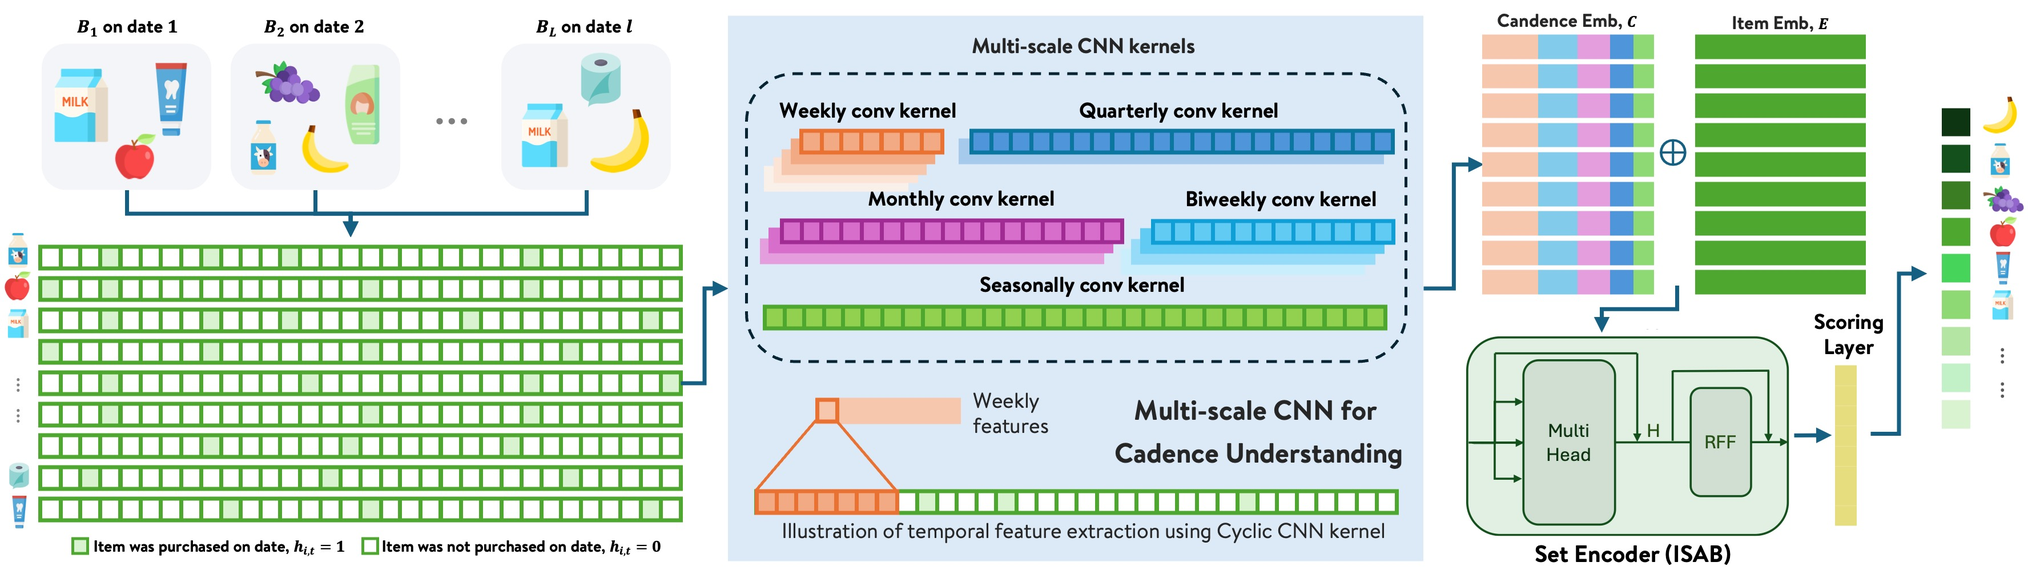
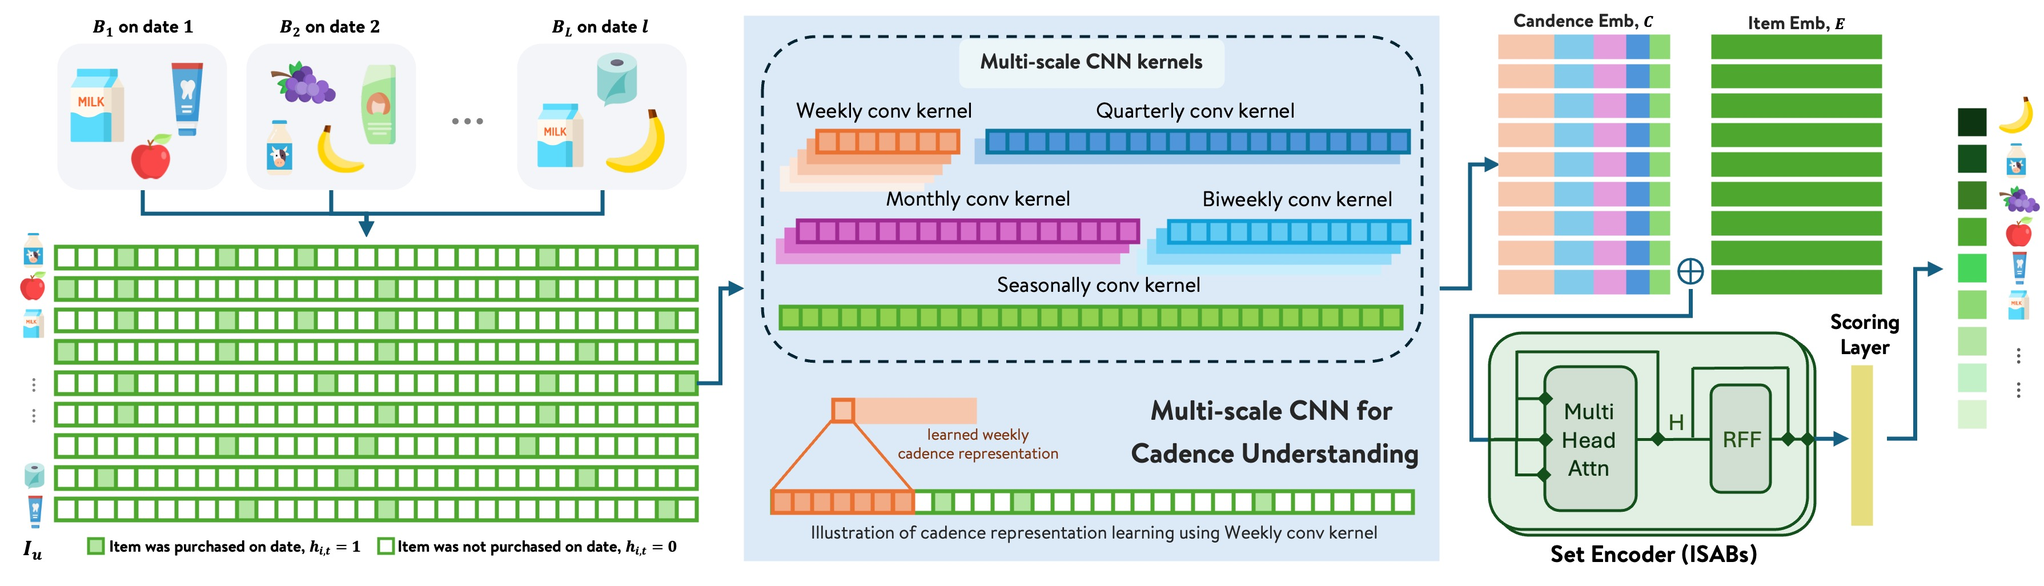
Updates from Overleaf

diff --git a/main.tex b/main.tex
@@ -100,7 +100,7 @@
 
 % % COMMENTS
 \newif\ifcomment
-% \commenttrue % comment out to hide comments
+\commenttrue % comment out to hide comments
 \providecommand{\YC}[1]{\ifcomment{\small \color{blue} [YC: #1]}\fi} %Yanan
 \providecommand{\AR}[1]{\ifcomment{\small \color{red} [AR: #1]}\fi} %Ashish
 
@@ -229,8 +229,9 @@
 %% The abstract is a short summary of the work to be presented in the
 %% article.
 \begin{abstract}
-Repurchase behavior is a major driver of large-scale retail recommendation: many items in a user’s next basket were purchased before, and their timing often follows stable, item-specific cadences. Yet most next basket recommendation models represent history as a sequence of discrete basket events indexed by visit order, which cannot explicitly model elapsed calendar time or update repurchase likelihoods between transactions. We present \textbf{CASE} (\textbf{C}adence-\textbf{A}ware \textbf{S}et \textbf{E}ncoding for next-basket repurchase recommendation), which decouples item-level cadence encoding from cross-item set modeling. CASE represents each item’s purchase history as a calendar-time signal over a fixed horizon, applies shared multi-scale temporal convolutions to capture recurring rhythms, and uses induced set attention to model cross-item dependencies with sub-quadratic complexity. Across three public benchmarks and a proprietary dataset, CASE consistently improves Precision, Recall, and NDCG at multiple cutoffs compared to strong nextbasket prediction baselines. In a production-scale evaluation with over tens of million users and large catalog items, CASE achieves up to 8.6\% relative Precision and 9.9\% Recall lift at $K{=}5$, demonstrating that scalable cadence-aware modeling yields measurable gains in both benchmark and industrial settings.
+Repurchase behavior is a primary signal in large-scale retail recommendation, particularly in categories with frequent replenishment: many items in a user’s next basket were previously purchased and their timing follows stable, item-specific cadences. Yet most next basket recommendation models represent history as a sequence of discrete basket events indexed by visit order, which cannot explicitly model elapsed calendar time or update predicted item rankings as calendar days pass between purchases. We present \textbf{CASE} (\textbf{C}adence-\textbf{A}ware \textbf{S}et \textbf{E}ncoding for next basket repurchase recommendation), which decouples item-level cadence learning from cross-item interaction, enabling explicit calendar-time modeling while remaining production-scalable. CASE represents each item’s purchase history as a calendar-time signal over a fixed horizon, applies shared multi-scale temporal convolutions to capture recurring rhythms, and uses induced set attention to model cross-item dependencies with sub-quadratic complexity, allowing efficient batch inference at scale. Across three public benchmarks and a proprietary dataset, CASE consistently improves Precision, Recall, and NDCG at multiple cutoffs compared to strong next basket prediction baselines. In a production-scale evaluation with tens of millions of users and a large item catalog, CASE achieves up to 8.6\% relative Precision and 9.9\% Recall lift at $K{=}5$, demonstrating that scalable cadence-aware modeling yields measurable gains in both benchmark and industrial settings.
 \end{abstract}
+
 
 
 %%
@@ -292,33 +293,28 @@ Repurchase behavior is a major driver of large-scale retail recommendation: many
     \centering    
     \includegraphics[width=1\linewidth]{figure1.jpg}
     \caption{
-    CASE architecture. Item purchase histories are encoded as binary $T$-day calendar-time signals. Shared multi-scale Conv1d kernels (weekly through seasonal) extract cadence embeddings $\mathbf{c}_i$, concatenated with item embeddings $\mathbf{e}_i$ and processed by an Induced Set Attention Block (ISAB) to capture cross-item dependencies at sub-quadratic cost. A final MLP outputs per-item repurchase scores.
+    CASE architecture. Item purchase histories are encoded as binary $T$-day calendar-time signals. Shared multi-scale Conv1d kernels from weekly through seasonal extract cadence embeddings $\mathbf{c}_i$, concatenated with item embeddings $\mathbf{e}_i$ and processed by Induced Set Attention Blocks (ISAB) to capture cross-item dependencies at sub-quadratic cost. A final MLP outputs per-item repurchase scores.
     }    
     \label{fig:diagram}
 \end{figure*}
 
-In large-scale grocery and retail platforms, a large number of items in a user’s next basket have been purchased before. Repurchase timing follows item-specific cadence, such as staples weekly and household goods monthly. Thus, accurate timing directly drives customer experience: recommend too early and suggestions feel irrelevant; too late and the item may already be in the cart from a competing channel. This makes next basket repurchase recommendation (NBRR) a central problem in production Next Basket Recommendation (NBR) systems, where the goal is to predict which previously purchased items a user needs next.
+In large-scale retail platforms with frequent replenishment behavior, a substantial fraction of items in a user’s next basket were previously purchased. Their repurchase timing often follows stable, item-specific cadences, such as milk purchased weekly and cleaning products purchased monthly. Thus, accurate timing is critical for user experience: recommending too early makes suggestions appear irrelevant, whereas recommending too late risks missing the purchase opportunity. This makes Next Basket Repurchase Recommendation (NBRR) a central task in production retail recommendation systems, where the goal is to predict which previously purchased items a user will need next.
 
-Most neural NBRR methods model user history as an ordered sequence of basket events, where time is represented implicitly by basket index rather than cadence around calendar days in real-world ~\cite{yu2020predicting, yu2023predicting}. Under this formulation, a user with baskets on days 1, 8, and 36 is treated identically to one with baskets on days 1, 2, and 3, since they both appear as a 3-basket sequence with no distinction in elapsed intervals. Predictions are updated only when a new transaction is observed, meaning scores remain static between purchases and cannot reflect that an item is overdue or not yet due for repurchase. This is a fundamental mismatch with production deployment: a model that cannot reason about elapsed time cannot be meaningfully refreshed between user sessions, and it provides no signal for users whose purchase frequency varies over time.
-An alternative line of work uses KNN-based methods that model personalized item frequency with temporal decay, finding similar users and aggregating their purchase patterns~\cite{hu2020modeling}. While competitive on offline benchmarks, such methods require computing user-to-user similarities at inference time ($O(|\mathcal{U}|{\cdot}N)$ per query, where $|\mathcal{U}|$ denotes the number of users, and $N$ denotes the number of items), which is infeasible at the scale of tens of millions of users without approximate retrieval systems that introduce their own quality and latency tradeoffs.
+Most neural NBRR methods model user history as an ordered sequence of basket events, where time is represented implicitly by basket index rather than by elapsed calendar time~\cite{yu2020predicting, yu2023predicting}. As a result, baskets on days 1, 8, and 36 are represented identically from days 1, 2, and 3 under the same three-step representation, and predictions are updated only when a new transaction occurs, leaving scores static between purchases and unable to reflect whether an item is overdue or not yet due. This creates a fundamental mismatch with production deployment: a model that does not explicitly account for elapsed time cannot get meaningfully refreshed between user sessions and provides adaptive signal for users whose purchase frequency varies over time. A related class of KNN-based methods models basket index with recency decay, retrieving similar users and aggregating their purchase patterns, and has shown strong performance on next basket prediction benchmarks~\cite{hu2020modeling}. However, these approaches require computing user-to-user similarities at inference time, incurring $O(|\mathcal{U}| \cdot d)$ cost per query (where $|\mathcal{U}|$ is the number of users and $d$ is the embedding dimension), followed by aggregation over neighbors’ items. This becomes infeasible at the scale of tens of millions of users.
 
-% \AR{pietsp deals with this one, day level membership. The differnce between CASE and PIETSP is the CNN part. In PIETSP item-item interaction is handled, but richer extraction of features at item level is not done. Case does that with CNN and via empirical results we see that it works better. So we are adding an item level feature extraction component before directly diving into capture of the interplay between individual items and the sequences they participate in. So if PIETSP does sequence addition and PE inter-item , CASE does sequence addition and CNN individual-item  and PE inter-item. Now CNN applied to individual item is also permutation equivariant layer for the item set. so we are basically adding item-level PE layer} 
+Some recent works have explored calendar-time representations for NBRR. One line represents item history as a binary time series and learns repurchase cycles via convolution~\cite{katz2024personalized}; however, it relies on user-specific convolution filters parameterization and quadratic item-interaction modules, limiting scalability at production scale. A complementary approach~\cite{ranjan2025scalable} achieves scalable set-level modeling via permutation-equivariant aggregation over calendar-time membership, but does not explicitly extract multi-scale cadence patterns at the item level. 
 
-
-
-% \YC{the CNN part is similar, theirs doesn't have predefined kernel but learn per user, please review this paragraph} \AR{i think they have the kernel of size T, different sizes as per paper in fig 6. but the point is spot on that its not scalable}
-% A separate recent work showed that modeling purchase history as a calendar-time signal by representing each item’s history as a binary time series over a fixed horizon, and learning per-item repurchase cycles via convolution substantially improves NBRR~\cite{katz2024personalized}. This approach captures that a user purchases milk every 7 days but paper towels every 28 days, and can update repurchase scores as calendar time advances. However, it generates personalized convolutional filters for every user--item pair via a hypernetwork and refines scores through full pairwise item attention ($O(N^2)$ in history size), both quadratic components that are infeasible at production scale. \AR{N needs to be defined. also one line about K that its the number of seeds}
-
-Recent works have converged on calendar-time signals as a more principled basis for NBRR. One line represents item history as a binary time series and learns repurchase cycles via convolution~\cite{katz2024personalized}, enabling time-based score refreshing as the calendar advances; however, per-user filter generation and quadratic item-interaction modules limit scalability at production scale. A complementary approach~\cite{ranjan2025scalable} achieves scalable set-level modeling via permutation-equivariant aggregation over calendar-time membership, but without explicit multi-scale temporal feature extraction at the item level.
-
-We propose \textbf{CASE} (\textbf{C}adence-\textbf{A}ware \textbf{S}et \textbf{E}ncoding for next basket repurchase recommendation), which preserves the calendar-time cadence insight while remaining production-scalable. CASE uses shared multi-scale convolutional filters, including weekly, biweekly, monthly, seasonal, and trend horizons to encode recurring repurchase patterns. Cross-item dependencies within a user’s purchase history are captured through induced set attention blocks (ISAB)~\cite{lee2019set},
-% \YC{should we compare regular attention nor induced? we might not have time, and we also didn't discuss too much on scalability like a table or so} \AR{we can write one line that regular attention takes it to Nsquare but if we have BERT4NBR paper output that should cover that because it is regular attention} 
-which reduce O($N^2$) pairwise attention to O($N{\cdot}K$) via a small set of learned induced points. Our contributions are:
+In this paper, we propose \textbf{CASE} (\textbf{C}adence-\textbf{A}ware \textbf{S}et \textbf{E}ncoding for Large-scale Next Basket Repurchase Recommendation), which explicitly models repurchase cadence in calendar time while remain scalable at production scale. CASE applies shared multi-scale convolutional filters to capture item-level recurring patterns across weekly, biweekly, monthly, seasonal, and trend horizons. Cross-item dependencies within a user’s purchase history are encoded through induced set attention blocks (ISAB)~\cite{lee2019set}, reducing the quadratic complexity of full self-attention. Our contributions are:
 \begin{itemize}[leftmargin=*,itemsep=0pt,topsep=2pt]
-  \item We identify the basket-index formulation as a fundamental limitation of existing NBRR for production deployment, and motivate calendar-time cadence as the appropriate inductive bias.
-  \item We propose CASE, combining shared multi-scale CNN cadence encoding with induced set attention, requiring no per-user parameters and supporting efficient batch inference.
-  \item We demonstrate up to 8.6\% relative Precision and 9.9\% Recall lift over a deployed production system on tens of millions of users and large-scale items, and consistent gains across three public benchmarks.
+  \item We identify the basket-index formulation as a structural limitation of existing NBRR for production deployment, and motivate calendar-time cadence as a more suitable formulation.
+  \item We propose CASE, combining shared multi-scale CNN-based cadence learning with induced set attention, requiring no per-user parameters and enabling efficient batch inference.
+  \item We demonstrate up to 8.6\% relative Precision and 9.9\% Recall lift over a deployed production system on tens of millions of users and a large item catalog, along with consistent gains across three public benchmarks.
+  \item Ablation shows cadence modeling dominates performance, with only modest degradation without item embeddings, reducing dependence on large, frequently refreshed embedding tables and enhancing production scalability.
 \end{itemize}
+
+  % \item We demonstrate consistent gains across three public benchmarks, and through ablation show that cadence modeling dominates performance, with only modest degradation without item embeddings, reducing dependence on large, frequently refreshed embedding tables and improving scalability.
+  % \item In a deployed production system serving tens of millions of users and a large item catalog, CASE achieves up to 8.6\% relative Precision and 9.9\% Recall lift.
+
 
 \section{CASE: Model Architecture}
 \label{sec:model}
@@ -330,27 +326,34 @@ Let $\mathcal{B}_u = (B_1, B_2, \ldots, B_L)$ denote the ordered basket sequence
 For each item $i \in \mathcal{I}_u$, we construct a binary purchase indicator $\mathbf{h}_i \in \{0,1\}^T$ over a rolling $T$-day calendar window, where $h_{i,t}{=}1$ if item $i$ was purchased on day $t$. Unlike basket-index encoding, this preserves actual inter-purchase intervals, enabling the model to distinguish items with different repurchase cadences and capture seasonal effects.
 
 \textbf{Multi-Scale Temporal CNN.}
-Shared multi-scale Conv1d filters are applied over $\mathbf{h}_i$ at five designed kernel sizes: weekly ($k{=}7$), biweekly ($k{=}14$), monthly ($k{=}28$), seasonal ($k{=}91$), and trend ($k{=}182$), each with stride $k$ (non-overlapping windows). The $\lfloor T/k \rfloor$ activations per scale are concatenated across all scales and projected through two FC layers with ReLU to yield $\mathbf{c}_i \in \mathbb{R}^{d_c}$. This multi-resolution design captures temporal patterns at multiple horizons, enabling CASE to model periodicity and trend using population-wide shared weights.
+Shared multi-scale Conv1d filters are applied over $\mathbf{h}_i$ at five predefined kernel sizes: weekly ($k{=}7$), biweekly ($k{=}14$), monthly ($k{=}28$), seasonal ($k{=}91$), and trend ($k{=}182$), each with stride $k$ (non-overlapping windows). The $\lfloor T/k \rfloor$ activations per scale are concatenated across all scales and projected through two FC layers with ReLU to yield $\mathbf{c}_i \in \mathbb{R}^{d_c}$. This multi-resolution design captures temporal patterns at multiple horizons, enabling CASE to model periodicity and trends using population-wide shared weights.
 
-\textbf{Induced Set Attention Encoding.}
-The combined representation $\mathbf{x}_i = [\mathbf{c}_i \,\|\, \mathbf{e}_i]$, where $\mathbf{e}_i \in \mathbb{R}^{d_e}$ is a learned item embedding capturing semantic identity, serves as input to the set encoder. Since a user's repurchase candidates form an unordered set, we capture cross-item co-purchase dependencies using a Set Transformer encoder~\cite{lee2019set} with Induced Set Attention Blocks (ISAB). ISAB reduces $O(N^2)$ pairwise attention to $O(N{\cdot}K)$ via $K$ learnable induced points $\mathbf{I} \in \mathbb{R}^{K \times d_h}$: induced points first attend to the item set, then items attend back. Two ISAB layers with $K{=}32$ and $H{=}4$ heads produce enriched representations $\mathbf{z}_i \in \mathbb{R}^{d_h}$ from $\mathbf{x}_i$.
+\textbf{Induced Set Attention Encoding.} 
+The combined representation $\mathbf{x}_i = [\mathbf{c}_i \,\|\, \mathbf{e}_i]$, where $\mathbf{e}_i \in \mathbb{R}^{d_e}$ is a learned item embedding, is fed into a Set Transformer encoder~\cite{lee2019set} to model cross-item dependencies among a user’s unordered repurchase candidates. We use Induced Set Attention Blocks (ISAB), which reduce $O(n^2)$ pairwise attention to $O(nK)$, where $n = |\mathcal{I}_u|$ is the number of candidate items for user $u$, via $K$ learnable induced points that first attend to the item set, then items attend back. Two ISAB layers with $K{=}32$ and $H{=}4$ heads produce enriched representations $\mathbf{z}_i \in \mathbb{R}^{d_h}$.
+
+% \YC{don't be repeatetive on O complexity analysis}
+
+% The combined representation $\mathbf{x}_i = [\mathbf{c}_i \,\|\, \mathbf{e}_i]$, where $\mathbf{e}_i \in \mathbb{R}^{d_e}$ is a learned item embedding capturing semantic identity, serves as input to the set encoder. Since a user's repurchase candidates form an unordered set, we capture cross-item co-purchase dependencies using a Set Transformer encoder~\cite{lee2019set} with Induced Set Attention Blocks (ISAB). ISAB replaces quadratic self-attention with interaction through $K$ learnable induced points $\mathbf{I} \in \mathbb{R}^{K \times d_h}$, yielding $O(nK)$ complexity for a user with $n = |\mathcal I_u|$ candidate items. Two ISAB layers with $K{=}32$ and $H{=}4$ heads produce enriched representations $\mathbf{z}_i \in \mathbb{R}^{d_h}$ from $\mathbf{x}_i$.
 
 \textbf{Scoring and Training.}
 Each $\mathbf{z}_i$ is passed through a two-layer MLP to produce a scalar score $s_i$; items are ranked by $s_i$ at inference. Training minimizes binary cross-entropy, with items in $B_{l+1} \cap \mathcal{I}_u$ as positives and all others as negatives.
 % All parameters are shared across users, making CASE's memory footprint independent of user population size.
 
+% \textbf{Computational Complexity.}
+% For a user with $n = |\mathcal I_u|$ candidate items, multi-scale temporal convolutions over a $T$-day horizon require $O(nT)$ computation (treating the number of scales and channels as constants), while ISAB set encoding requires $O(nK)$. The overall per-user complexity is therefore $O(n(T+K))$, enabling efficient batch inference over large user populations.
+
 
 \begin{table*}[t]
 \centering
 \small
-\caption{Comparisons on Top-$K$ performance for next-basket repurchase recommendation. Higher is better. Best results per dataset and metric@K are in \textbf{bold}; second best are \underline{underlined}.}
+\caption{Comparisons on Top-$K$ performance for next basket repurchase recommendation. Higher is better. Best results per dataset and metric@K are in \textbf{bold}; second best are \underline{underlined}.}
 \begin{tabular}{@{}ll|ccc|ccc|ccc|ccc@{}}
 \toprule
 \multirow{2}{*}{Datasets} & \multirow{2}{*}{Methods}
-& \multicolumn{3}{c|}{$K{=}1$}
-& \multicolumn{3}{c|}{$K{=}3$}
-& \multicolumn{3}{c|}{$K{=}5$}
-& \multicolumn{3}{c}{$K{=}10$} \\
+& \multicolumn{3}{c|}{$k{=}1$}
+& \multicolumn{3}{c|}{$k{=}3$}
+& \multicolumn{3}{c|}{$k{=}5$}
+& \multicolumn{3}{c}{$k{=}10$} \\
 & & Prec & Rec & NDCG
   & Prec & Rec & NDCG
   & Prec & Rec & NDCG
@@ -402,7 +405,7 @@ Each $\mathbf{z}_i$ is passed through a two-layer MLP to produce a scalar score 
 & 0.3843 & 0.3245 & 0.3843
 & 0.2498 & 0.6081 & \underline{0.5051}
 & \underline{0.1843} & 0.7229 & 0.5387
-& 0.1140 & 0.8442 & 0.5473 \\
+& \underline{0.1140} & 0.8442 & \underline{0.5473} \\
 & DNNTSP
 & 0.3264 & 0.2685 & 0.3264
 & 0.2269 & 0.5485 & 0.4441
@@ -417,7 +420,7 @@ Each $\mathbf{z}_i$ is passed through a two-layer MLP to produce a scalar score 
 & \underline{0.3886} & \underline{0.3291} & \underline{0.3886}
 & \underline{0.2499} & \underline{0.6094} & 0.5023
 & 0.1841 & \underline{0.7229} & \underline{0.5389}
-& \underline{0.1092} & \underline{0.8443} & \underline{0.5467} \\
+& 0.1092 & \underline{0.8443} & 0.5467 \\
 & CASE
 & \textbf{0.3904} & \textbf{0.3296} & \textbf{0.3904}
 & \textbf{0.2515} & \textbf{0.6113} & \textbf{0.5089}
@@ -508,7 +511,7 @@ We evaluate on four datasets spanning grocery and retail domains, chosen to cove
 % \caption{Dataset statistics.}
 % \begin{tabular}{lrrrrr}
 % \toprule
-% Dataset & \#U & \#I & Avg\_Size\_B & Avg\_B/U & \#B \\
+% Dataset & \#U & \#I & Avg\_Size\_basket_szie & Avg\_Basket/User & \#B \\
 % \midrule
 % DC & 123,935 & 852 & 1.60 & 14.16 & 1,754,890 \\
 % Instacart & 18,739 & 37,522 & 10.07 & 16.70 & 312,986 \\
@@ -521,20 +524,22 @@ We evaluate on four datasets spanning grocery and retail domains, chosen to cove
 
 \textbf{Instacart}~\cite{yasserh_instacart_2017} is a public online grocery dataset with 18,739 users, 37,522 products, and an average of 16.7 baskets per user with 10.01 items each. \textbf{TaFeng}~\cite{yu2020predicting} is a Taiwanese cash-and-carry supermarket dataset with 7,227 users and 18,703 items, whose shorter histories (7.52 baskets per user) and smaller baskets (6.58 items) make it a challenging setting for cadence models. \textbf{DC} is derived from the Dunnhumby ``Carbo-Loading'' database\footnote{\url{https://www.dunnhumby.com/source-files/}} and contains 123,935 users but only 852 distinct products, with very small baskets (1.60 products per basket). \textbf{Proprietary} data is randomly sampled from our internal large-scale grocery dataset, having 10,308 users across a large amount of 88,812 items, with rich histories of 11.72 items per basket and 43 baskets per user on average. 
 
-For all datasets, we conduct train-test split based on customers and construct labels by leave-one-out: each user’s items in last order is the target basket. Item candidate is defined as the intersection of target basket with the user's history baskets. We preserve calendar timestamps when available (e.g. TaFeng and Proprietary). For datasets without explicit order dates (e.g., Instacart and DC), we construct relative dates based on provided number of days between orders to build the $T$-day binary history representation. 
+For all datasets, we perform a user-level train–test split with leave-one-out labeling, using each user’s last order as the target basket. Candidates are restricted to items previously purchased by the user. we preserve calendar timestamps when available (TaFeng and Proprietary); otherwise (Instacart and DC), we reconstruct relative dates from inter-order intervals to build the $T$-day binary history representation.
+
+% For all datasets, we conduct train-test split based on customers and construct labels by leave-one-out: each user’s items in last order is the target basket. Item candidate is defined as the intersection of target basket with the user's history baskets. We preserve calendar timestamps when available (e.g. TaFeng and Proprietary). For datasets without explicit order dates (e.g., Instacart and DC), we construct relative dates based on provided number of days between orders to build the $T$-day binary history representation. 
 
 \subsection{Baselines}
 
 % \YC{maybe can extend baseline model description a little since we have space}
-We compare CASE against four baselines: \textbf{TIFUKNN}~\cite{hu2020modeling}, a KNN method that builds temporally decayed item vectors per user and aggregates scores from similar users, achieving strong repurchase performance but at $O(|\mathcal{U}|{\cdot}N)$ inference cost that is non-scalable in production; \textbf{DNNTSP}~\cite{yu2020predicting}, which applies GNN aggregation over an item co-occurrence graph with basket-index temporal attention; \textbf{BERT4NBR}~\cite{li2023masked}, an adaptation of BERT4Rec to NBR setting by applying bidirectional self-attention over basket-indexed purchase sequences; and \textbf{PIETSP}~\cite{ranjan2025scalable}, which applies permutation-equivariant mean pooling on top of time-step based item history and for scalable set-level aggregation, but without multi-scale temporal feature extraction at the item level.
+We compare CASE against four baselines: \textbf{TIFUKNN}~\cite{hu2020modeling}, a KNN method that builds temporally decayed item vectors per user and aggregates scores from similar users, achieving strong repurchase performance but at high inference cost that is non-scalable in production; \textbf{DNNTSP}~\cite{yu2020predicting}, which applies GNN aggregation over an item co-occurrence graph with basket-index temporal attention; \textbf{BERT4NBR}~\cite{li2023masked}, an adaptation of BERT4Rec to NBR setting by applying bidirectional self-attention over basket-indexed purchase sequences; and \textbf{PIETSP}~\cite{ranjan2025scalable}, which applies permutation-equivariant mean pooling on top of time-step based item history and for scalable set-level aggregation, but without multi-scale temporal feature extraction at the item level.
 
 
 \subsection{Evaluation and Implementation}
 
-We report three metrics at $K$ for $K \in \{1, 3, 5, 10\}$. \textbf{Precision@$K$} measures the fraction of recommended items that are relevant, which is the primary metrics in user-facing recommendation system; \textbf{Recall@$K$} measures the fraction of all relevant items captured in the top-$K$ list; \textbf{NDCG@$K$} is a ranking-aware metric that assigns higher scores to positive items appearing higher in the list. 
+We report three metrics at $K \in \{1, 3, 5, 10\}$. \textbf{Precision@$K$} measures the fraction of recommended items that are relevant, which is the primary metric in user-facing recommendation systems; \textbf{Recall@$K$} measures the fraction of all relevant items captured in the top-$K$ list; \textbf{NDCG@$K$} is a ranking-aware metric that assigns higher scores to positive items appearing higher in the list. 
 
 CASE is implemented in PyTorch with item embedding dimension $d_e{=}128$, CNN output dimension $d_c{=}128$, ISAB hidden dimension $d_h{=}256$, $K{=}32$ induced points, and $H{=}4$ attention heads. We train for 30 epochs using the Adam optimizer with learning rate $10^{-3}$, weight decay $10^{-5}$, and batch size 64. Dropout of 0.1 is applied after each ISAB layer and in the MLP scorer. Code is available at 
-\url{https://anonymous.4open.science/r/CASE_NBRR-67BA/}
+\url{https://github.com/ycao21/CASE_NBRR}.
 
 
 \section{Experimental Results}
@@ -543,17 +548,22 @@ CASE is implemented in PyTorch with item embedding dimension $d_e{=}128$, CNN ou
 \centering
 \small
 \caption{Ablation study on the Instacart dataset. Higher is better. Best results are in \textbf{bold}; second best are \underline{underlined}.}
+\label{tab:ablation}
 \begin{tabular}{l|ccc|ccc|ccc|ccc}
 \toprule
 \multirow{2}{*}{Model Components}
-& \multicolumn{3}{c|}{$K{=}1$}
-& \multicolumn{3}{c|}{$K{=}3$}
-& \multicolumn{3}{c|}{$K{=}5$}
-& \multicolumn{3}{c}{$K{=}10$} \\
+& \multicolumn{3}{c}{$k{=}1$}
+& \multicolumn{3}{c}{$k{=}3$}
+& \multicolumn{3}{c}{$k{=}5$}
+& \multicolumn{3}{c}{$k{=}10$} \\
+\cmidrule(lr){2-4}
+\cmidrule(lr){5-7}
+\cmidrule(lr){8-10}
+\cmidrule(lr){11-13}
 & Prec & Rec & NDCG
-  & Prec & Rec & NDCG
-  & Prec & Rec & NDCG
-  & Prec & Rec & NDCG \\
+& Prec & Rec & NDCG
+& Prec & Rec & NDCG
+& Prec & Rec & NDCG \\
 \midrule
 
 CASE w/o CNN
@@ -561,39 +571,91 @@ CASE w/o CNN
 & 0.2666 & 0.1793 & 0.3046
 & 0.2382 & 0.2519 & 0.3065
 & 0.2023 & 0.3784 & 0.3297 \\
-% & 0.1655 & 0.5319 & 0.3760 \\
 
 CASE w/o Set Encoder
 & 0.5232 & 0.1263 & 0.5232
 & 0.4485 & 0.2897 & 0.5038
 & 0.3947 & 0.3915 & 0.5000
 & 0.3122 & 0.5396 & 0.5152 \\
-% & 0.2342 & 0.6978 & 0.5582 \\
 
 CASE w/o Item Embedding
 & 0.5390 & 0.1281 & 0.5390
 & 0.4488 & 0.2848 & 0.5057
 & 0.3919 & 0.3847 & 0.4985
 & 0.3124 & 0.5360 & 0.5161 \\
-% & 0.2336 & 0.6913 & 0.5588 \\
 
-CASE w/ PermMean as Encoder
+CASE w/ PermEqMean
 & \underline{0.5414} & \underline{0.1326} & \underline{0.5414}
-& \underline{0.4538} & \underline{0.2911} & \underline{0.5115}
+& \underline{0.4538} & \underline{0.2901} & \underline{0.5115}
 & \underline{0.3983} & \underline{0.3917} & \underline{0.5062}
-& \underline{0.3147} & \underline{0.5463} & \underline{0.5225}\\
-% & \underline{0.2356} & \underline{0.6927} & \underline{0.5656} \\
+& \underline{0.3147} & \underline{0.5463} & \underline{0.5225} \\
 
-CASE
+CASE (w/ ISAB)
 & \textbf{0.5478} & \textbf{0.1325} & \textbf{0.5478}
 & \textbf{0.4551} & \textbf{0.2901} & \textbf{0.5135}
 & \textbf{0.3989} & \textbf{0.3949} & \textbf{0.5086}
 & \textbf{0.3155} & \textbf{0.5464} & \textbf{0.5241} \\
-% & \textbf{0.2359} & \textbf{0.6994} & \textbf{0.5660} \\
 
 \bottomrule
 \end{tabular}
 \end{table*}
+
+% \begin{table*}[t]
+% \centering
+% \small
+% \caption{Ablation study on the Instacart dataset. Higher is better. Best results are in \textbf{bold}; second best are \underline{underlined}.}
+% \begin{tabular}{l|ccc|ccc|ccc|ccc}
+% \toprule
+% \multirow{2}{*}{Model Components}
+% & \multicolumn{3}{c|}{$K{=}1$}
+% & \multicolumn{3}{c|}{$K{=}3$}
+% & \multicolumn{3}{c|}{$K{=}5$}
+% & \multicolumn{3}{c}{$K{=}10$} \\
+% & Prec & Rec & NDCG
+%   & Prec & Rec & NDCG
+%   & Prec & Rec & NDCG
+%   & Prec & Rec & NDCG \\
+% \midrule
+
+% CASE w/o CNN
+% & 0.3333 & 0.0740 & 0.3333
+% & 0.2666 & 0.1793 & 0.3046
+% & 0.2382 & 0.2519 & 0.3065
+% & 0.2023 & 0.3784 & 0.3297 \\
+% % & 0.1655 & 0.5319 & 0.3760 \\
+
+% CASE w/o Set Encoder
+% & 0.5232 & 0.1263 & 0.5232
+% & 0.4485 & 0.2897 & 0.5038
+% & 0.3947 & 0.3915 & 0.5000
+% & 0.3122 & 0.5396 & 0.5152 \\
+% % & 0.2342 & 0.6978 & 0.5582 \\
+
+% CASE w/o Item Embedding
+% & 0.5390 & 0.1281 & 0.5390
+% & 0.4488 & 0.2848 & 0.5057
+% & 0.3919 & 0.3847 & 0.4985
+% & 0.3124 & 0.5360 & 0.5161 \\
+% % & 0.2336 & 0.6913 & 0.5588 \\
+
+% CASE w/ PermEqMean
+% & \underline{0.5414} & \underline{0.1326} & \underline{0.5414}
+% & \underline{0.4538} & \underline{0.2901} & \underline{0.5115}
+% & \underline{0.3983} & \underline{0.3917} & \underline{0.5062}
+% & \underline{0.3147} & \underline{0.5463} & \underline{0.5225}\\
+% % & \underline{0.2356} & \underline{0.6927} & \underline{0.5656} \\
+
+% CASE (w/ ISAB)
+% & \textbf{0.5478} & \textbf{0.1325} & \textbf{0.5478}
+% & \textbf{0.4551} & \textbf{0.2901} & \textbf{0.5135}
+% & \textbf{0.3989} & \textbf{0.3949} & \textbf{0.5086}
+% & \textbf{0.3155} & \textbf{0.5464} & \textbf{0.5241} \\
+% % & \textbf{0.2359} & \textbf{0.6994} & \textbf{0.5660} \\
+
+% \bottomrule
+% \label{tab:ablation}
+% \end{tabular}
+% \end{table*}
 
 
 Table~\ref{tab:main_results} compares CASE against four baselines across four datasets. We assess the model along two axes: offline recommendation quality and scalability to production.
@@ -616,16 +678,20 @@ Table~\ref{tab:main_results} compares CASE against four baselines across four da
 % \end{table}
 % TIFUKNN leads at $K{=}1$ while CASE outperforms at $K{\geq}3$ and lareger, the practically more relevant regime given that customers routinely place large baskets. On the Proprietary dataset, 
 
-\textbf{Recommendation quality.} CASE achieves best or near-best performance across all datasets and cutoffs. The primary offline competitor is TIFUKNN, a well-established strong baseline for repurchase recommendation. On TaFeng dataset with sparse user histories and DC dataset with small basket context, CASE leads clearly and PIETSP ranks second, confirming that calendar-time cadence is a stronger inductive bias than basket-index encoding in sparse settings: with few transactions or small orders per user, KNN neighbor estimation is unreliable and aggregation degrades, whereas CASE's shared CNN is trained on the full population and generalizes even to sparse information. On richer datasets such as Instacart and Proprietary, CASE and TIFUKNN are closely matched with CASE slightly leads the performance, which is itself a strong result given TIFUKNN's known effectiveness as a repurchase baseline. DNNTSP and BERT4NBR, despite more complex architectures relying on basket-index representations, consistently lag behind TIFUKNN across DC, Instacart, and Proprietary, confirming that basket-index encoding is a fundamental structural limitation that neither graph-based nor transformer-based attention can overcome. 
-% Overall, gains are largest when calendar-time irregularity matters (sparser or more variable purchasing), supporting the hypothesis that explicit cadence modeling provides signal that basket-index encodings discard.
+CASE achieves the best or near-best performance across all datasets and metrics. The primary offline competitor is TIFUKNN, a well-established strong baseline for repurchase recommendation. On TaFeng (sparse histories) and DC (small basket context), CASE clearly leads, with PIETSP ranking second, confirming that calendar-time cadence is a stronger design principle in sparse settings: when transactions are few or baskets are small, neighbor aggregation degrades, whereas CASE’s shared temporal encoding generalizes across the population. On richer datasets (Instacart and Proprietary), CASE remains competitive with TIFUKNN and slightly outperforms it, which is a strong result given TIFUKNN’s effectiveness as a repurchase baseline~\cite{li2023next}. DNNTSP and BERT4NBR consistently lag across DC, Instacart, and Proprietary, indicating that basket-index encoding is a structural limitation that more complex graph or transformer architectures do not overcome.
+Beside recommendation quality, CASE also keepsparameterization independent of the user population. For a user with $n$ candidate items and a $T$-day horizon, multi-scale temporal encoding and induced set attention incur $O(n(T+K))$ complexity. TIFUKNN, by contrast, requires $O(|\mathcal{U}| \cdot d)$ per-query computation to retrieve and aggregate neighbor histories, which is infeasible at the scale of tens of millions of users. \YC{What are $K, d, U$?}
+% In addition, CASE maintains strong performance in the absence of item embeddings, a property that is particularly advantageous for production deployment, as we demonstrate in the next section.
 
-\textbf{Scalability.} CASE achieves strong offline performance while keeping parameterization independent of the user population and using $O(N{\cdot}K)$ set interaction, which aligns better with production constraints than approaches requiring $O(|\mathcal{U}|{\cdot}N)$ neighbor retrieval or $O(N^2)$ item-item attention. TIFUKNN, by contrast, requires $O(|\mathcal{U}|{\cdot}N)$ per-query computation to retrieve and aggregate neighbor histories. This is infeasible at tens of millions of users without approximate retrieval infrastructure that adds latency and quality degradation. CASE is the only approach in our comparison that is simultaneously competitive with the strongest offline baseline and deployable at production scale without modification.
+Overall, CASE is the only approach in our comparison that is simultaneously competitive with the strongest offline baseline and deployable at production scale.
 
 \subsection{Ablation Study}
 
-The ablation study is evaluated on the Instacart dataset and isolates the contribution of each architectural component.
+The ablation study is evaluated on the Instacart dataset and isolates the contribution of each architectural component, shown in Table~\ref{tab:ablation}.
 
-\textbf{Temporal CNN is the dominant component.} Removing the multi-scale CNN causes the largest performance drop across all metrics: Precision@1 collapses from 0.548 to 0.333, with similarly large drops in Recall and NDCG (Table~\ref{tab:ablation}). This confirms that the calendar-time cadence encoding is the primary source of discriminative signal. Figure~\ref{fig:embedding} visualizes item representations at different stages. Temporal CNN separates positives and negatives by aligning items according to cadence phase, while the set encoder further refines separation by incorporating co-purchase context among items with similar cadence signals.
+\textbf{Temporal CNN is the dominant component.} Removing the multi-scale CNN leads to the largest performance drop across all metrics, confirming that calendar-time cadence encoding provides the primary discriminative signal. 
+Figure~\ref{fig:embedding} supports these findings. The temporal CNN induces a clear separation between positive and negative items by organizing them according to cadence phase in the embedding space. The subsequent set encoder (ISAB) preserves this global structure while refining the decision boundary through cross-item co-purchase context, resulting in more compact and better-separated clusters.
+% As shown in Figure~\ref{fig:embedding}, the temporal CNN separates positives and negatives by aligning items according to cadence phase, while the set encoder further refines this separation by incorporating co-purchase context among items with similar cadence patterns.
+
 
 \begin{figure}[h]
     \centering    
@@ -636,15 +702,24 @@ The ablation study is evaluated on the Instacart dataset and isolates the contri
     \label{fig:embedding}
 \end{figure}
 
-\textbf{Set Attention provides consistent gains across $K$.} Removing the set encoder reduces performance at every cutoff: NDCG@10 drops from 0.524 to 0.515, with consistent drops across all metrics (Table~\ref{tab:ablation}). This suggests that ISAB captures co-purchase context that complements the temporal cadence signal throughout the item list. Removing the item embedding also degrades performance modestly (Precision@1: 0.539 vs.\ 0.548), confirming that semantic item identity provides a complementary signal alongside cadence within Set Attention.
+\textbf{Set Attention provides consistent gains across $K$.}
+Removing the set encoder reduces performance at every cutoff. This suggests that ISAB captures co-purchase context that complements the temporal cadence signal throughout the item list.
+
+\textbf{Item Embedding plays a complementary role.}
+Removing item embeddings degrades performance modestly, indicating that semantic identity provides additional signal beyond cadence. The small gap confirms that calendar-time encoding is the primary driver of performance. This is significant in production: it reduces reliance on large, frequently refreshed embedding tables, improving scalability as the catalog grows.
 
 
-\textbf{ISAB vs.\ PermEqMean}. We additionally compare ISAB to a lighter-weight permutation-equivariant mean pooling set encoder (PermEqMean\cite{zaheer2017deep}) to isolate whether attention-based set interaction is necessary beyond permutation-equivariant aggregation. CASE with ISAB maintains a consistent advantage across all cutoffs. This suggests that the learned induced-point attention in ISAB captures richer cross-item dependencies.
+% \textbf{ISAB vs.\ PermEqMean}. 
+% We additionally compare ISAB to a lighter-weight permutation-equivariant mean pooling set encoder (PermEqMean)\cite{zaheer2017deep} to isolate whether attention-based set interaction is necessary beyond permutation-equivariant aggregation. CASE with ISAB maintains a consistent advantage across all cutoffs. This suggests that the learned induced-point attention in ISAB captures richer cross-item dependencies.
 
 
-\section{Comparison with Production}
+\textbf{ISAB vs.\ PermEqMean}. 
+We futher compare ISAB to a lighter-weight permutation-equivariant mean pooling encoder (PermEqMean)~\cite{zaheer2017deep} to assess whether attention-based interaction provides benefits beyond simple set aggregation. PermEqMean achieves competitive performance, indicating that set-level encoding atop temporal cadence modeling is effective. ISAB further yields consistent gains, suggesting that induced-point attention refines cross-item dependencies beyond simple order invariant aggregation.
 
-We train the model at our production data scale and compare it against the deployed production system. In production, we focus on $K{\in}\{5, 10, 20\}$ as these represent the practically relevant recommendation slate sizes shown to users. As shown in Table~\ref{tab:lift}, CASE delivers sustained gains of 6.8--8.6\% in Precision and 7.9--9.9\% in Recall, with consistent improvements in NDCG.
+
+\section{Production Experimental Results}
+
+We train the model at our production data scale and compare it against the deployed production system. In production, we focus on $k{\in}\{5, 10, 20\}$, as these represent the practically relevant recommendation slate sizes shown to users. As shown in Table~\ref{tab:lift}, CASE delivers sustained gains of 6.8--8.6\% in Precision and 7.9--9.9\% in Recall, with consistent improvements in NDCG. 
 
 \begin{table}[h]
 \centering
@@ -652,7 +727,7 @@ We train the model at our production data scale and compare it against the deplo
 \caption{Relative lift (\%) of CASE over production model.}
 \begin{tabular}{c|ccc}
 \toprule
-K & Precision & Recall & NDCG \\
+k & Precision & Recall & NDCG \\
 \midrule
 5  & +8.63\%  & +9.90\%  & +10.46\% \\
 10 & +6.78\%  & +7.95\%  & +9.40\% \\
@@ -663,12 +738,22 @@ K & Precision & Recall & NDCG \\
 \end{table}
 
 
-\section{Conclusion}
+% Unlike neighbor-based approaches requiring per-user retrieval or graph expansion, 
+CASE uses shared multi-scale temporal filters and induced set attention, ensuring that inference cost scales linearly with candidate size and remains independent of total user population. This design satisfies production constraints on scalability and infrastructure without introducing additional latency or per-user parameterization. An online A/B test is planned to evaluate CASE against the currently deployed model.
 
-We presented CASE, a strong and scalable next basket repurchase recommendation model that encodes item-level repurchase cadence via shared multi-scale convolutional filters and models cross-item dependencies through induced set attention. CASE achieves consistent improvements over strong baselines across three public benchmarks and delivers up to 8.6\% Precision and 9.9\% Recall lift over a deployed production system serving tens of millions of users. These results confirm that calendar-time cadence encoding, combined with scalable set-level attention, is a principled and effective foundation for large-scale next basket repurchase recommendation.
+% \YC{We presented CASE, a strong and scalable next basket repurchase recommendation model, with consistent improvements over strong baselines across public benchmarks confirming that calendar-time cadence understanding, combined with scalable set-level attention, is a effective foundation for large-scale next basket repurchase recommendation}
 
+% \section{Conclusion \YC{maybe remove conclusion}}
 
+% We presented CASE, a strong and scalable next basket repurchase recommendation model that encodes item-level repurchase cadence via shared multi-scale convolutional filters and models cross-item dependencies through induced set attention. CASE achieves consistent improvements over strong baselines across three public benchmarks and delivers up to strong lift over a production system serving tens of millions of users. These results confirm that calendar-time cadence understanding, combined with scalable set-level attention, is a effective foundation for large-scale next basket repurchase recommendation.
 
+\section*{Main Presenter Bio}
+
+\noindent \textbf{Yanan Cao} 
+is a Senior Data Scientist at Walmart Global Tech, working on large-scale retail recommendation systems. Her work focuses on next basket recommendation, purchase interval prediction, and temporal modeling for production-scale recommender systems using transformer-based deep learning and large language model reasoning.Her interests lie in scalable learning systems, and translating research innovations into real-world deployment.
+
+\noindent \textbf{Ashish Ranjan} 
+is a Staff Data Scientist at Walmart Global Tech, leading large-scale personalization and ranking systems. His work spans heterogeneous-set modeling, unified ranking across diverse content, and integration of large language models into production e-commerce workflows. He has led end-to-end deployments, from modeling to real-time inference infrastructure, serving hundreds of millions of users. His interests include scalable IR systems and the deployment of learning architectures at industrial scale.
 
 % \clearpage
 %% the bibliography file.
